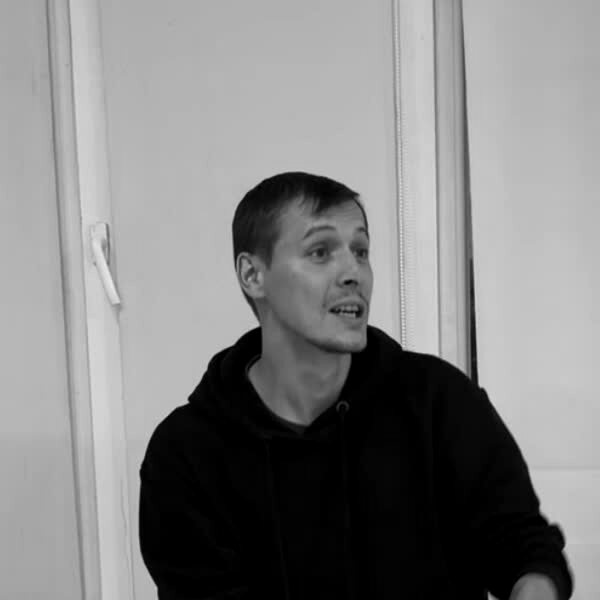
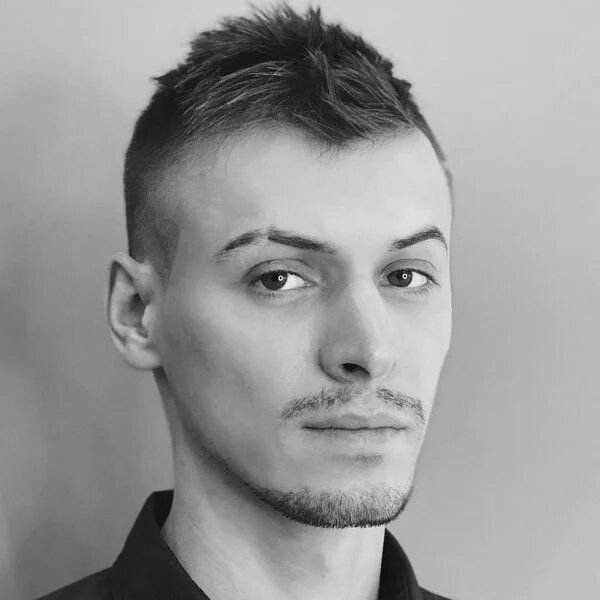
Первый экран: «без грима» не наезжает на текст на невысоких экранах; новые фото Давыдова и Рудаковского

diff --git a/index.html b/index.html
@@ -518,6 +518,13 @@ select{appearance:none;background-image:linear-gradient(45deg,transparent 50%,va
 .miniform form{display:grid;grid-template-columns:1fr 1fr auto;gap:10px}
 .miniform .done{display:none;color:var(--paper)}
 @media (max-width:900px){.miniform{grid-template-columns:1fr}.miniform form{grid-template-columns:1fr}}
+@media (min-width:901px){
+  .hero{height:auto;min-height:100svh;display:flex;flex-direction:column;justify-content:space-between;padding:clamp(100px,13vh,130px) var(--pad) clamp(40px,7vh,76px)}
+  .hero .title{position:relative;top:auto;left:auto;font-size:clamp(110px,min(25vw,44vh),420px)}
+  .hero .title.front{display:none}
+  .hero .title:not(.front) .w2{visibility:visible}
+  .hero .lead{position:relative;left:auto;bottom:auto;margin-top:32px}
+}
 </style>
 </head>
 <body>
@@ -652,7 +659,7 @@ select{appearance:none;background-image:linear-gradient(45deg,transparent 50%,va
     <p class="intro" data-r="2">На занятия приходят действующие актёры, режиссёры и кастинг-директоры. Разбирают ваши работы и рассказывают, как всё устроено на площадке.</p>
     <div class="guests">
       <div class="guest" data-r><div class="ph"><img src="img/guests/davydov.jpg" alt="Константин Давыдов" loading="lazy"></div><div class="t"><span class="mono">Актёр театра и кино</span><h4>Константин Давыдов</h4><p>Паша в сериале «Чернобыль: Зона отчуждения», «Бесстыдники». Выпускник Щукинского училища.</p></div></div>
-      <div class="guest" data-r="2"><div class="ph"><img src="img/guests/rudakovsky.jpg" alt="Марк Рудаковский" loading="lazy"></div><div class="t"><span class="mono">Актёр</span><h4>Марк Рудаковский</h4><p>Актёр и хоккеист, участник шоу «Титаны». Разбирал этюды учеников и давал обратную связь.</p></div></div>
+      <div class="guest" data-r="2"><div class="ph"><img src="img/guests/rudakovsky.jpg" alt="Марк Рудаковский" loading="lazy"></div><div class="t"><span class="mono">Актёр и хоккеист</span><h4>Марк Рудаковский</h4><p>Актёр и хоккеист, участник шоу «Титаны». Разбирал этюды учеников и давал обратную связь.</p></div></div>
       <div class="guest more" data-r="3"><b>+</b><h4>И другие гости потока</h4><p>Актёры, режиссёры и кастинг-директоры. Имена объявляем перед стартом.</p></div>
     </div>
   </div>
